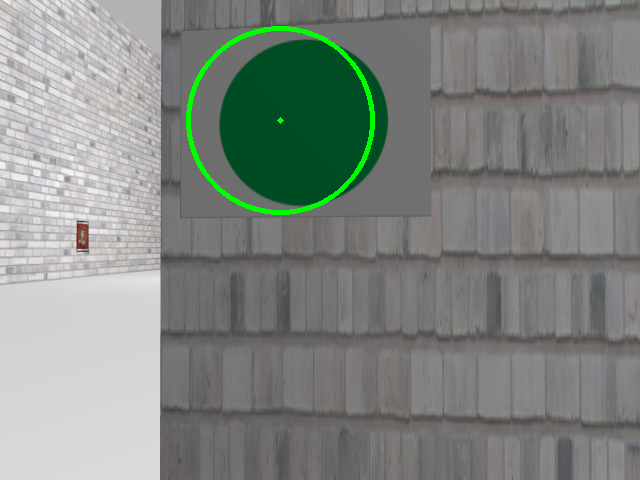
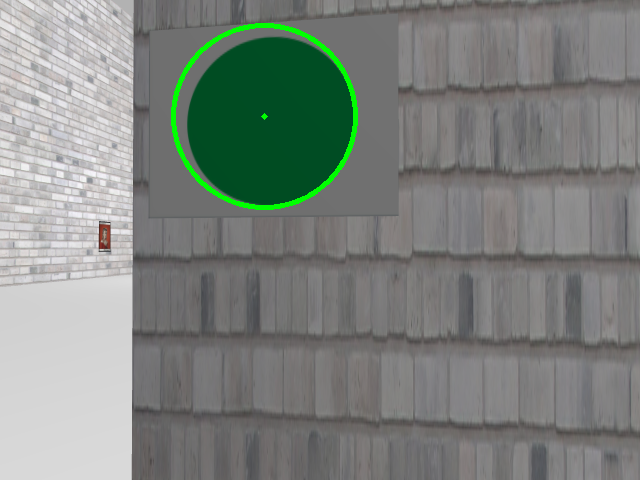
Detecting which entrance th robot is at and goes into green room

diff --git a/project/src/CircleDetection.py b/project/src/CircleDetection.py
@@ -29,19 +29,14 @@ class colourIdentifier():
         self.image_sub = rospy.Subscriber("camera/rgb/image_raw", Image, self.callback)
         self.detect = True
         while True:
-            if(self.centralised and not self.green_circle_detected):
+            if(self.centralised and not (self.green_circle_detected or self.red_circle_detected)):
                 self.desired_velocity.linear.x = 0.1
                 self.desired_velocity.angular.z = 0
-            if(self.green_circle_detected):
+            if(self.green_circle_detected or self.red_circle_detected):
                 self.desired_velocity.linear.x = 0
                 self.desired_velocity.angular.z = 0
-
-                #ADD CODE TO TAKE IMAGE CAPTURE
-
-                #cv2.destroyAllWindows()
-
                 break;
-            if (not self.green_detected and not (self.green_circle_detected or self.centralised)):
+            if (not (self.green_detected or self.red_detected) and not (self.green_circle_detected or self.red_circle_detected or self.centralised)):
                 self.desired_velocity.angular.z = 0.2
 
             self.pub.publish(self.desired_velocity)
@@ -49,15 +44,17 @@ class colourIdentifier():
 
 
     def callback(self, data):
-        if not self.detect:
-            return
 
         try:
             cv_image = self.bridge.imgmsg_to_cv2(data, "bgr8")
+            if not self.detect:
+                return
 
 
         except CvBridgeError as e:
             print(e)
+        except AttributeError:
+            pass
 
         #Declare upper and lower bounds for red and green hsv values
         hsv_green_lower = np.array([40,10,10])
@@ -81,33 +78,38 @@ class colourIdentifier():
         #Find contours in the masks
         contours_green, hierarchy = cv2.findContours(image_mask_green.copy(), cv2.RETR_LIST, cv2.CHAIN_APPROX_SIMPLE)
         contours_red, hierarchy = cv2.findContours(image_mask_red.copy(), cv2.RETR_LIST, cv2.CHAIN_APPROX_SIMPLE)
-
+        grey = cv2.cvtColor(cv_image, cv2.COLOR_BGR2GRAY)
+        grey = cv2.medianBlur(grey,9)
         #Use HoughCircles function to detect circles within the masked images.
-        green_circle = cv2.HoughCircles(image_mask_green, cv.CV_HOUGH_GRADIENT, 80,100, param1 = 700, param2 = 600, minRadius = 1, maxRadius = 200)
-        red_circle = cv2.HoughCircles(image_mask_red, cv.CV_HOUGH_GRADIENT, 100, 120, param1 = 150, param2 = 150)#, param1 = 500, param2 = 400, minRadius = 1, maxRadius = 200 )
-
-
+        circles = cv2.HoughCircles(grey, cv.CV_HOUGH_GRADIENT,1,20,param1 = 50, param2= 30,minRadius = 90,maxRadius = 110)
         width = np.size(image_res, 1)
         centre = (width / 2)
 
+
+
+
         #green circle detection
         if len(contours_green) > 0:
+
             cgreen = max(contours_green, key = cv2.contourArea)
             M = cv2.moments(cgreen)
-            cx, cy = int(M['m10']/M['m00']), int(M['m01']/M['m00'])
+            try:
+                cx, cy = int(M['m10']/M['m00']), int(M['m01']/M['m00'])
+            except ZeroDivisionError:
+                pass
             if cv2.contourArea(cgreen) > 1000:
                 self.green_detected = True
-                if((cx < centre + 10) and (cx > centre -10 )):
+                if((cx < centre + 30) and (cx > centre -30 )):
                     self.centralised = True;
 
-                if cv2.contourArea(cgreen) > 8000 and green_circle is not None:
+                if cv2.contourArea(cgreen) > 8000 and circles is not None:
                     COLOUR_GREEN = np.array([0,255,0])
-                    green_circle = np.uint16(np.around(green_circle))
-                    for i in green_circle[0, :]:
+                    circles = np.uint16(np.around(circles))
+                    for i in circles[0, :]:
                         centre = (i[0], i[1])
                         cv2.circle(cv_image, centre, 1, COLOUR_GREEN,3)
                         radius = i[2]
-                        cv2.circle(cv_image,centre,radius,COLOUR_GREEN,3)
+                    cv2.circle(cv_image,centre,radius,COLOUR_GREEN,3)
                     cv2.imwrite('green_circle.png', cv_image)
                     self.green_circle_detected = True
 
@@ -118,22 +120,29 @@ class colourIdentifier():
         if len(contours_red) > 0:
             cred = max(contours_red, key = cv2.contourArea)
             M = cv2.moments(cred)
+            try:
+                cx, cy = int(M['m10']/M['m00']), int(M['m01']/M['m00'])
+            except ZeroDivisionError:
+                pass
+
             if cv2.contourArea(cred) > 1000:
-                print(cv2.contourArea(cred))
                 self.red_detected = True
-                print("Red detected")
-                if red_circle is not None and cv2.contourArea(cred) > 8000:
-                    print("Circle detected")
+                if((cx < centre + 30) and (cx > centre -30 )):
+                    self.centralised = True;
+
+                if circles is not None and cv2.contourArea(cred) > 8000:
                     COLOUR_GREEN = np.array([0,255,0])
-                    red_circle = np.uint16(np.around(red_circle))
-                    for i in red_circle[0, :]:
+                    circles = np.uint16(np.around(circles))
+                    for i in circles[0, :]:
                         centre = (i[0], i[1])
                         cv2.circle(cv_image, centre, 1, COLOUR_GREEN,3)
                         radius = i[2]
-                        cv2.circle(cv_image,centre,radius,COLOUR_GREEN,3)
+                    cv2.circle(cv_image,centre,radius,COLOUR_GREEN,3)
                     self.red_circle_detected = True
         else:
             self.red_detected = False
+
+
 
         #Display feeds
         #cv2.namedWindow('Camera_Feed')

diff --git a/project/src/main.py b/project/src/main.py
@@ -6,6 +6,39 @@ from room import RoomOne, RoomTwo
 from go_to_specific_point_on_map import GoToPose
 from CircleDetection import colourIdentifier
 
+def moveBasedOnRedOrGreen(green, red, navigator):
+    if green:
+
+        # Customize the following values so they are appropriate for your location
+        x = room_1.get_centre("x")
+        y = room_1.get_centre("y")
+        theta = 0  # This is for rotation
+        position = {'x': x, 'y': y}
+        quaternion = {'r1': 0.000, 'r2': 0.000, 'r3': np.sin(theta/2.0), 'r4': np.cos(theta/2.0)}
+
+        rospy.loginfo("Go to (%s, %s) pose", position['x'], position['y'])
+        success = navigator.goto(position, quaternion)
+        if success:
+            rospy.loginfo("Hooray, reached the desired pose")
+        else:
+            rospy.loginfo("The base failed to reach the desired pose")
+
+    elif red:
+        rospy.init_node('move_to_point', anonymous=True)
+        navigator = GoToPose()
+
+        # Customize the following values so they are appropriate for your location
+        x = room_1.get_entrance("x")
+        y = room_1.get_entrance("y")
+        theta = 0  # This is for rotation
+        position = {'x': x, 'y': y}
+        quaternion = {'r1': 0.000, 'r2': 0.000, 'r3': np.sin(theta/2.0), 'r4': np.cos(theta/2.0)}
+
+        rospy.loginfo("Go to (%s, %s) pose", position['x'], position['y'])
+        success = navigator.goto(position, quaternion)
+
+    return success
+
 if __name__ == '__main__':
 
     # TODO: We might be better off getting the user to specify where the input_points.yaml file is.
@@ -22,8 +55,8 @@ if __name__ == '__main__':
         navigator = GoToPose()
 
         # Customize the following values so they are appropriate for your location
-        x = room_1.get_entrance("x")
-        y = room_1.get_entrance("y")
+        x = room_2.get_entrance("x")
+        y = room_2.get_entrance("y")
         theta = 0  # This is for rotation
         position = {'x': x, 'y': y}
         quaternion = {'r1': 0.000, 'r2': 0.000, 'r3': np.sin(theta/2.0), 'r4': np.cos(theta/2.0)}
@@ -50,39 +83,26 @@ if __name__ == '__main__':
         else:
             rospy.loginfo("The base failed to reach the desired pose")
 
-        if green:
+        success = moveBasedOnRedOrGreen(green, red, navigator)
+        if(red and success):
+            red = False
+            green = False
+            while True:
+                cI=colourIdentifier()
+                if cI.green_circle_detected:
+                    rospy.loginfo("GREEN")
+                    green = True
+                    cI.detect = False
+                    break
+                elif cI.red_circle_detected:
+                    rospy.loginfo("RED")
+                    red = True
+                    cI.detect = False
+                    break
+            rospy.loginfo("DETECTED ONE")
 
-            # Customize the following values so they are appropriate for your location
-            x = room_1.get_centre("x")
-            y = room_1.get_centre("y")
-            theta = 0  # This is for rotation
-            position = {'x': x, 'y': y}
-            quaternion = {'r1': 0.000, 'r2': 0.000, 'r3': np.sin(theta/2.0), 'r4': np.cos(theta/2.0)}
+            moveBasedOnRedOrGreen(green,red, navigator)
 
-            rospy.loginfo("Go to (%s, %s) pose", position['x'], position['y'])
-            success = navigator.goto(position, quaternion)
-            if success:
-                rospy.loginfo("Hooray, reached the desired pose")
-            else:
-                rospy.loginfo("The base failed to reach the desired pose")
-
-        elif red:
-            rospy.init_node('move_to_point', anonymous=True)
-            navigator = GoToPose()
-
-            # Customize the following values so they are appropriate for your location
-            x = room_2.get_entrance("x")
-            y = room_2.get_entrance("y")
-            theta = 0  # This is for rotation
-            position = {'x': x, 'y': y}
-            quaternion = {'r1': 0.000, 'r2': 0.000, 'r3': np.sin(theta/2.0), 'r4': np.cos(theta/2.0)}
-
-            rospy.loginfo("Go to (%s, %s) pose", position['x'], position['y'])
-            success = navigator.goto(position, quaternion)
-            if success:
-                rospy.loginfo("Hooray, reached the desired pose")
-            else:
-                rospy.loginfo("The base failed to reach the desired pose")
 
         # Sleep to give the last log messages time to be sent
         rospy.sleep(1)
